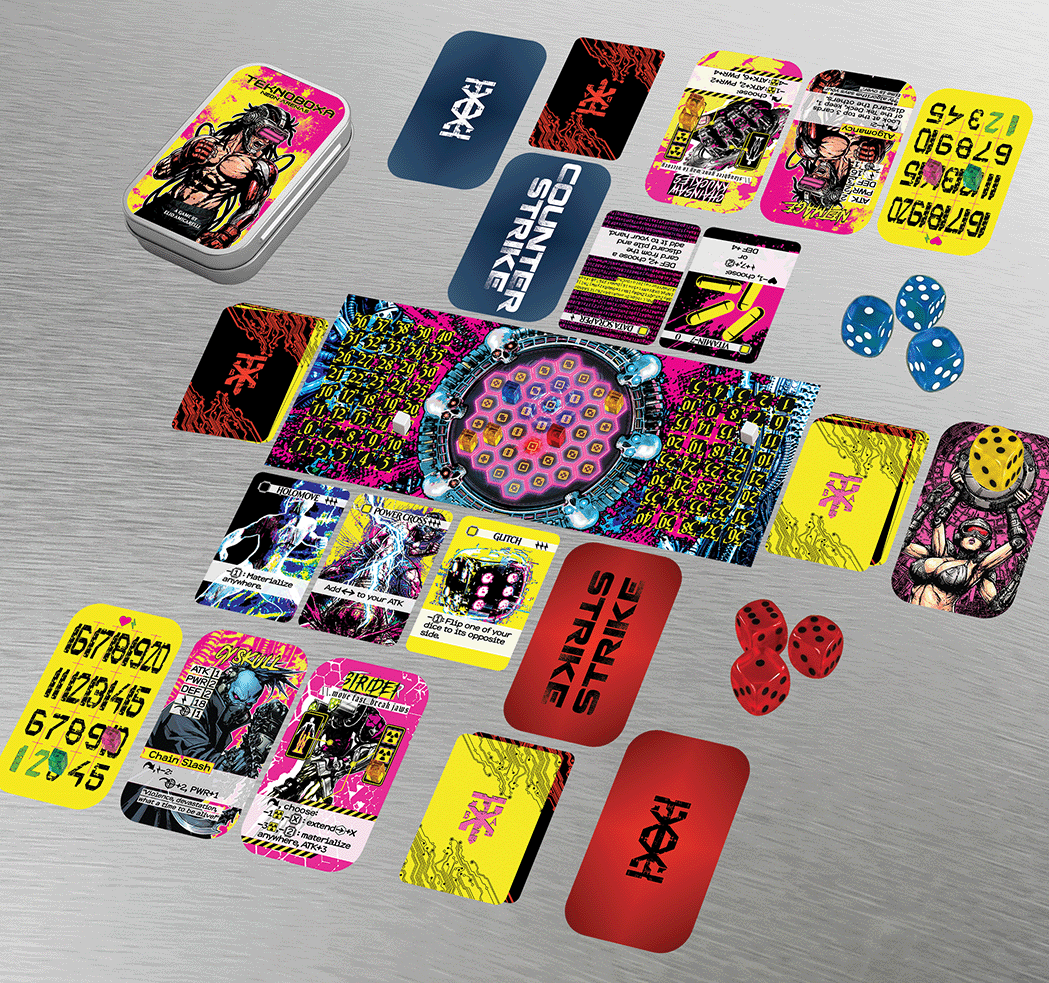
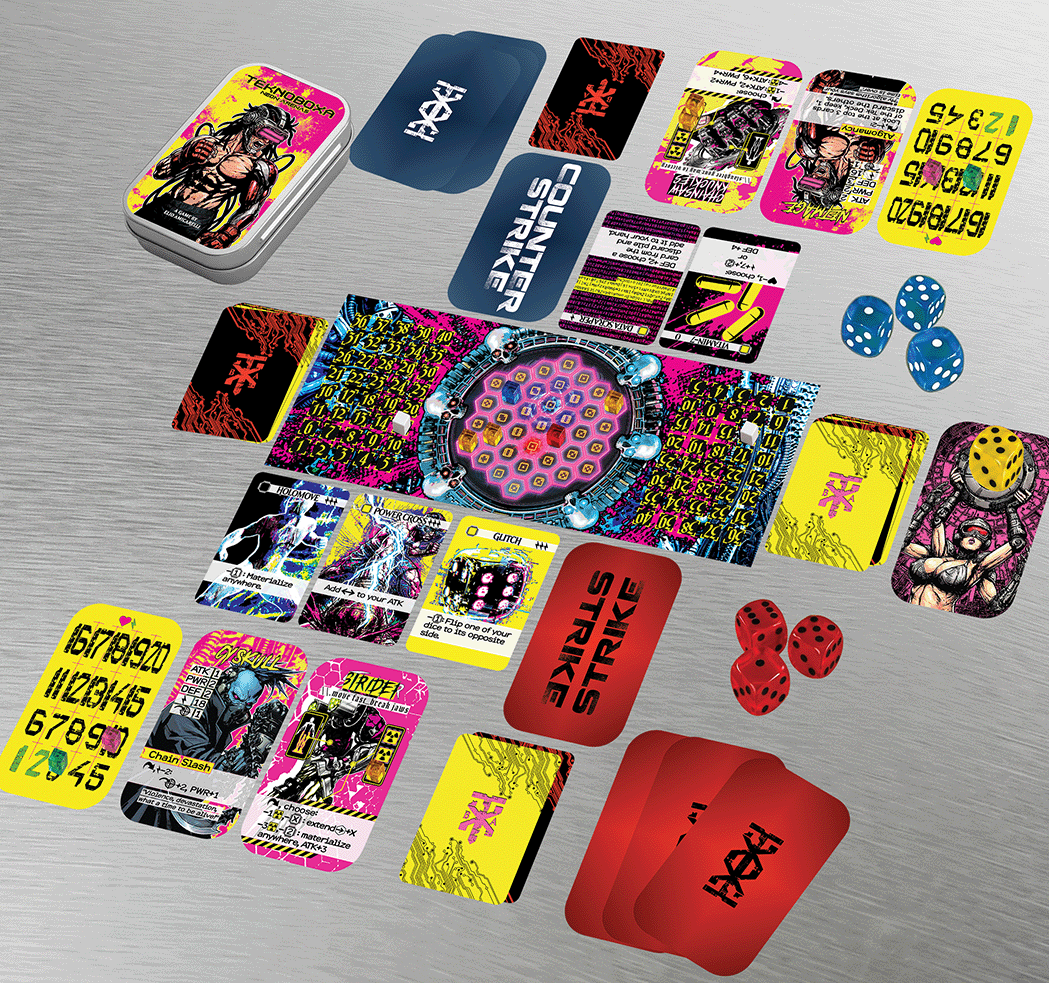
fixes

diff --git a/privacy-policy.html b/privacy-policy.html
@@ -1,0 +1,106 @@
+<!DOCTYPE html>
+<html lang="en">
+<head>
+    <meta charset="UTF-8">
+    <meta name="viewport" content="width=device-width, initial-scale=1.0">
+    <title>Teknoboxa - Privacy Policy</title>
+    <link rel="preconnect" href="https://fonts.googleapis.com">
+    <link rel="preconnect" href="https://fonts.gstatic.com" crossorigin>
+    <link href="https://fonts.googleapis.com/css2?family=Rajdhani:wght@400;600&family=VT323&display=swap" rel="stylesheet">
+    <link rel="icon" type="image/png" href="img/favicon.png">
+    <link rel="stylesheet" href="css/styles.css">
+</head>
+<body>
+    <div class="container">
+        <div class="content-card">
+            <div class="policy-section">
+                <h1 class="policy-title">Privacy Policy</h1>
+                <div class="policy-content">
+                    <p>Last Updated: June 10, 2026</p>
+
+                    <h2>Overview</h2>
+                    <p>Teknoboxa - Neon Arenas (“we”, “us” or “our”) is committed to protecting the privacy of the personal information we collect and use. We will collect personal information from time to time in order to better deliver our products and services (collectively “Services”). To learn more about the personal information we collect and how we use and protect that personal information, please read on.</p>
+                    <p>Please note, this Privacy Policy may be amended from time to time to reflect changes in technology, the law, or for any other reason we determine is necessary or appropriate. Any updates to this Privacy Policy will be posted here. Please refer to the “Last Updated” date at the top of the document to familiarize yourself with the most recent version of this Privacy Policy.</p>
+
+                    <h2>Personal Information Collected on Users of Services</h2>
+                    <p>By providing personal information to us and by requesting us to provide you with the Services, you voluntarily consent to the collection, use and disclosure of such personal information as specified in this Privacy Policy. Without limiting the foregoing, we may on occasion ask you to consent when we collect, use, or disclose your personal information in specific circumstances. Sometimes your consent will be implied through your conduct with us if the purpose of the collection, and our expected use or disclosure of your information, is or should be obvious and you voluntarily provide the information. Please be assured, however, that all collection, use and disclosure of personal information will be in accordance with this Privacy Policy.</p>
+
+                    <h2>When We Collect User Information</h2>
+                    <p>Much of the personal information is collected when you interact with our site or request our Services, specifically:</p>
+                    <ul>
+                        <li>when you register on our site or request our Services (examples: name, email address, address)</li>
+                        <li>subscribe to our newsletter (example: email address)</li>
+                        <li>fill out a form (example: name, email address, address)</li>
+                        <li>otherwise enter personal information on our site or through or Services</li>
+                    </ul>
+                    <p>We also collect information automatically when you use our Services, including via technologies like cookies. For more information about cookies and how they are used, see the cookies section below.</p>
+
+                    <h2>Use and Purpose of Information Collected</h2>
+                    <p>We may use the personal information that we collect for the following purposes:</p>
+                    <ul>
+                        <li>to provide the Services to our Users and to improve the quality of the Services</li>
+                        <li>to provide our Users with newsletters, RSS feeds, or other communications or services which our Users have signed up for or otherwise agreed to receive</li>
+                        <li>to provide information to our Users so that they may use the Services more effectively</li>
+                        <li>to create, manage and control Users’ account information, and to verify access rights to Services and software</li>
+                        <li>to communicate with Users for the purpose of informing them of changes or additions to the Services, or of the availability of any Service we provide</li>
+                        <li>to assess service levels, monitor traffic patterns and gauge popularity of different service options</li>
+                        <li>to communicate with Users about products or services that may be of interest to them, either from us or third parties</li>
+                        <li>to enforce this Privacy Policy</li>
+                        <li>to respond to claims of any violation of our rights or those of any third parties</li>
+                        <li>to cooperate with legal, criminal or regulatory investigations or proceedings</li>
+                        <li>to respond to Users’ requests for customer service</li>
+                        <li>to protect the rights, property or personal safety of our Users, the End Users, us and the public; and as required or authorized by law</li>
+                        <li>Providing advertising and marketing services to the User or the end users of the User’s website</li>
+                    </ul>
+                    <p>Users have the option to not receive marketing emails from us. Within all marketing email communications is an opt-out function, and we will cease communicating with you upon exercising the opt-out function. Please note that Users may not “opt-out” of certain communication announcements related to the Services, including information specific to User account (such as confirmation emails), planned Services suspensions and outages, though we will attempt to minimize this type of communication to Users.</p>
+
+                    <h2>Information Sharing</h2>
+                    <p>We may share the personal information we have collected with third parties in accordance with your instructions or as necessary to provide our Users with a specific Service or otherwise in accordance with this Privacy Policy and any Applicable Data Privacy Laws. We may disclose your personal and non-personal information to our agents, contractors and service providers who are engaged to perform functions on our behalf (such as processing of payments, provision of data storage, hosting of our website, marketing of our products and services, conducting audits, and performing web analytics). These third-party contractors and service providers (i) shall be permitted to obtain only the personal information they need to provide the service, and (ii) must protect personal information to the same extent as Us, including not using it for any improper purpose.</p>
+                    <p>We may also share your personal information to third parties when we believe, in good faith and in our sole discretion, that such disclosure is reasonably necessary to:</p>
+                    <ul>
+                        <li>conduct a legitimate business purpose, including advertising and marketing to you or end users</li>
+                        <li>enforce or apply our Terms of Service, including investigation of potential violations thereof</li>
+                        <li>comply with legal or regulatory requirements or cooperate with a law enforcement or regulatory investigation</li>
+                        <li>protect the rights, property, or safety of Us, our Users or other third parties</li>
+                        <li>prevent a crime or protect national security</li>
+                        <li>detect, prevent or otherwise address fraud, security or technical issues</li>
+                    </ul>
+                    <p>The information we collect may also be disclosed as part of any merger, acquisition, or sale of Us and/or its assets, as well as in the unlikely event of insolvency, bankruptcy, or receivership, in which case personal information would be transferred as one of the business assets of the company.</p>
+                    <p>We may also disclose non-personally identifiable information on an aggregated, anonymous basis (see “Aggregated Data” section below) to our business partners, merchants, advertisers, investors, potential buyers and other third parties if we deem such disclosure, in our sole discretion, to have sound business reasons or justifications.</p>
+
+                    <h2>Aggregated Data</h2>
+                    <p>We may also use your personal information and information about our Users’ site’s activity to generate Aggregated Data for internal use and for sharing with others. “Aggregated Data” means records which have been stripped of information potentially identifying users of Sites, and which have been manipulated or combined to provide generalized, anonymous information. Aggregated Data will not disclose you as the source or subject of the information.</p>
+
+                    <h2>Cookies and Other Information-Gathering Technologies</h2>
+                    <p>We use cookies to track User activity. Cookies are small amounts of data that are transferred to your web browser by a web server and are stored on your computer’s hard drive. We use cookies to track which page variant a visitor has seen, to track if a visitor has clicked on a page variant, to monitor traffic patterns and to gauge popularity of service options. We will use this information to deliver relevant content and services to our Users. This also allows us to make sure that visitors see the landing page they expect to see if they return to the same web URL, and it allows us to tell you how many people click on our Users’ landing pages.</p>
+                    <p>Most browsers will allow you to decline the use of and to delete cookies already stored on your computer. Please refer to the “help” portion of the toolbar on your browser if you wish to disable or delete cookies. Please note, however, that if you choose to set your browser to decline, delete or disable cookies, you may not be able to access certain areas or features of our Sites.</p>
+                    <p>In addition to cookies, we or our service providers may use web beacons, pixels and similar technologies on our Sites and in email messages or newsletters. These tiny electronic images can be used to assist us in determining how many users have visited certain pages or opened messages or newsletters.</p>
+
+                    <h2>Your Rights</h2>
+                    <p>If you are a resident of a state governed by Applicable Data Privacy Laws you have the right to access, correct or delete personal information collected on you. You also have the right to opt out of having your personal information shared or sold and to limit the use and disclosure of any sensitive personal information.</p>
+                    <p>You may exercise your rights by contacting us at [email redacted].</p>
+                    <p>You may also use the email above to request information about whether your personal information has been shared or sold to any third parties for the third parties’ direct marketing purposes. If such a request is made, we will provide a list of all third parties to whom personal information was disclosed in the preceding calendar year, as well as a list of the categories of personal information that was disclosed. Please note that, for technical reasons, there may be a delay in processing this request and that we are only required to respond to one request per customer each year, and we are not required to respond to requests made by means other than through the provided email address. Please note that not all information is covered by the Applicable Data Privacy Law requirements and only covered information will be included in our response.</p>
+                    <p>You also have the right not to be discriminated against for exercising your privacy rights. We will not discriminate against you should you choose to exercise any of your rights as described above.</p>
+
+                    <h2>We Use Google Ads</h2>
+                    <p>This website uses the Google Ads remarketing service to advertise on third-party websites (including Google) to previous visitors to our site. It could mean that we advertise to previous visitors who haven’t completed a task on our site, for example using the contact form to make an inquiry. This could be in the form of an advertisement on the Google search results page, or a site in the Google Display Network. Third-party vendors, including Google, use cookies to serve ads based on someone’s past visits to our website. Of course, any data collected will be used in accordance with our own privacy policy and Google’s privacy policy.</p>
+                    <p>You can set preferences for how Google advertises to you using the Google Ad Preferences page, and if you want to you can opt out of interest-based advertising entirely by cookie settings or permanently using a browser plugin.</p>
+
+                    <h2>Links</h2>
+                    <p>Our Site may contain links to other websites. We are not responsible for the privacy or security practices or the content of such other websites. We encourage you to read the privacy policy of linked sites that you visit, because their privacy policies and practices may differ from ours.</p>
+
+                    <h2>Children’s Privacy</h2>
+                    <p>Our site is not intended for children under sixteen (16) years of age. We do not knowingly provide the Sites or the Services to, and will not knowingly collect personal information from, children under the age of 16 or anyone else under the age of consent. If we learn that we have collected or received personal information from a child under the age of 16 without verification of parental consent, we will delete that information. If you believe we might have any information from or about a child under 16, please contact us through our support page.</p>
+
+                    <h2>Security</h2>
+                    <p>We will strive to prevent unauthorized access to your personal information; however, no data transmission over the Internet, by wireless device or over the air is guaranteed to be 100% secure. We will continue to enhance security procedures as new technologies and procedures become available.</p>
+                    <p>Please remember that you control what personal information you provide while using the Services and Sites. Ultimately, you are responsible for maintaining the secrecy of your identification, passwords and/or any personal information in your possession for the use of the Services and Sites. Always be careful and responsible regarding your personal information. We are not responsible for, and cannot control, the use by others of any information which you provide to them, and you should use caution in selecting the personal information you provide to others through the Services and Sites.</p>
+                </div>
+                <div class="back-link">
+                    <a href="index.html">Back to Home</a>
+                </div>
+            </div>
+        </div>
+    </div>
+</body>
+</html>

diff --git a/css/styles.css b/css/styles.css
@@ -137,9 +137,18 @@ body {
 }
 
 .icons-image {
-    max-width: 200px;
+    max-width: 200px; /* Restored original size for top icons */
     width: 100%;
     height: auto;
+}
+
+/* Specific size and spacing for icons at the bottom of the page */
+.final-call-to-action .icons-image {
+    max-width: 150px; /* Increased slightly from 120px */
+}
+
+.final-call-to-action .game-icons {
+    margin-bottom: -15px; /* Applied negative margin to reduce space even further */
 }
 
 .subscribe-form {
@@ -596,7 +605,7 @@ body {
 
 .final-call-to-action {
     text-align: center;
-    padding: 20px 20px;
+    padding: 20px 20px 0 20px;
     width: 100%;
     max-width: 800px;
     margin: 0 auto;
@@ -614,7 +623,8 @@ body {
 }
 
 .brand-footer {
-    margin-top: 30px;
+    margin-top: -15px; /* Changed to negative to move it further up */
+    margin-bottom: 25px; /* Added space between branding and the next paragraph */
     text-align: center;
     width: 100%;
     padding: 9 40px 0 20px; /* Increased right padding to shift text further to the left */
@@ -634,7 +644,7 @@ body {
 
 .brand-subtitle {
     font-family: 'Glitch Inside', sans-serif;
-    font-size: clamp(0.8rem, 2vw, 1.2rem);
+    font-size: clamp(1rem, 3vw, 1.8rem); /* Increased from clamp(0.8rem, 2vw, 1.2rem) */
     color: #fcfd00;
     text-shadow: 0 0 8px #fcfd00;
     margin: 5px 0 0 0;
@@ -709,5 +719,84 @@ body {
         max-width: 500px;
         text-align: left;
         padding-left: 30px;
+    }
+}
+
+/* Policy Page Styles */
+.policy-section {
+    padding: 40px 20px;
+    width: 100%;
+    max-width: 900px;
+    margin: 0 auto;
+    color: #ffffff;
+    font-family: 'Rajdhani', sans-serif;
+}
+
+.policy-title {
+    color: #ffffff;
+    margin-bottom: 30px;
+    text-align: center;
+    font-size: 2.5em;
+    font-family: 'Rajdhani', sans-serif;
+    text-shadow: none;
+}
+
+.policy-content {
+    line-height: 1.6;
+    font-size: 1.1em;
+}
+
+.policy-content h2 {
+    color: #ffffff;
+    margin-top: 30px;
+    margin-bottom: 15px;
+    font-size: 1.5em;
+    text-transform: uppercase;
+    letter-spacing: 1px;
+}
+
+.policy-content h3 {
+    color: #ffffff;
+    margin-top: 25px;
+    margin-bottom: 10px;
+    font-size: 1.2em;
+}
+
+.policy-content p {
+    margin-bottom: 15px;
+}
+
+.policy-content ul {
+    margin-bottom: 20px;
+    padding-left: 20px;
+}
+
+.policy-content li {
+    margin-bottom: 8px;
+}
+
+.back-link {
+    margin-top: 40px;
+    text-align: center;
+}
+
+.back-link a {
+    color: #fcfd00;
+    text-decoration: none;
+    font-weight: bold;
+    border: 1px solid #fcfd00;
+    padding: 10px 20px;
+    transition: all 0.3s ease;
+}
+
+.back-link a:hover {
+    background-color: #fcfd00;
+    color: #0d0413;
+    box-shadow: 0 0 10px #fcfd00;
+}
+
+@media screen and (min-width: 768px) {
+    .policy-section {
+        padding: 60px 50px;
     }
 }

diff --git a/index.html b/index.html
@@ -71,14 +71,14 @@
                     </div>
                     <div class="gameplay-text">
                         <h3 class="feature-title">Dominate the Arena</h3>
-                        <p class="feature-description">Move and <strong>collect power units</strong> to charge your cyberware and trigger its devastating effects. Dictate the pace of the fight by outmaneuvering your opponent: secure favorable positioning to <strong>earn dice modifiers</strong>, and always stay mindful of their <strong>striking range</strong>.</p>
+                        <p class="feature-description">Move and <strong>collect power units</strong> to charge your cyberware and trigger its devastating effects. Dictate the pace of the fight by outmaneuvering your opponent: secure favorable positioning to <strong>earn dice modifiers</strong>, and always <strong>keep the striking distance in check</strong>.</p>
                     </div>
                 </div>
 
                 <div class="gameplay-section">
                     <div class="gameplay-text">
                         <h3 class="feature-title">Create your tactic for victory</h3>
-                        <p class="feature-description">Mix Strike, Guard, Parry, and Slip with 32 special techniques. With <strong>hundreds of combinations</strong>, forge a playstyle to adapt to any threat and exploit enemy weaknesses. But watch out! Rolling a <strong>triple-six</strong> on the dice can knock anyone down and shatter even the best hardware to pieces.</p>
+                        <p class="feature-description">Mix Strike, Guard, Counterstrike, and Slip with 32 special techniques. With <strong>hundreds of combinations</strong>, forge a playstyle to adapt to any threat and exploit enemy weaknesses. But watch out! Rolling a <strong>triple-six</strong> on the dice can knock anyone down and shatter even the best hardware to pieces.</p>
                     </div>
                     <div class="gameplay-image">
                         <img src="img/teks.png" alt="Teknoboxa Game Box" class="feature-image">
@@ -86,10 +86,13 @@
                 </div>
 
                 <div class="final-call-to-action">
-                    <p>A fight to the finish is about to start. Will you dominate through superior tactics or relentless aggression?</p>
                     <div class="brand-footer">
                         <h1 class="brand-title">TEKNOBOXA</h1>
                         <p class="brand-subtitle">Neon Arenas</p>
+                    </div>
+                    <p>A fight to the finish is about to start. Will you dominate through superior tactics or relentless aggression?</p>
+                    <div class="game-icons">
+                        <img src="img/box_icons_yellow.png" alt="Game Icons" class="icons-image">
                     </div>
                 </div>
             </div>
@@ -108,7 +111,7 @@
             <footer class="site-footer">
                 <div class="footer-left">Powered by GitHub Pages</div>
                 <div class="footer-right">
-                    <a href="#">Privacy Policy</a>
+                    <a href="privacy-policy.html">Privacy Policy</a>
                 </div>
             </footer>
         </div>